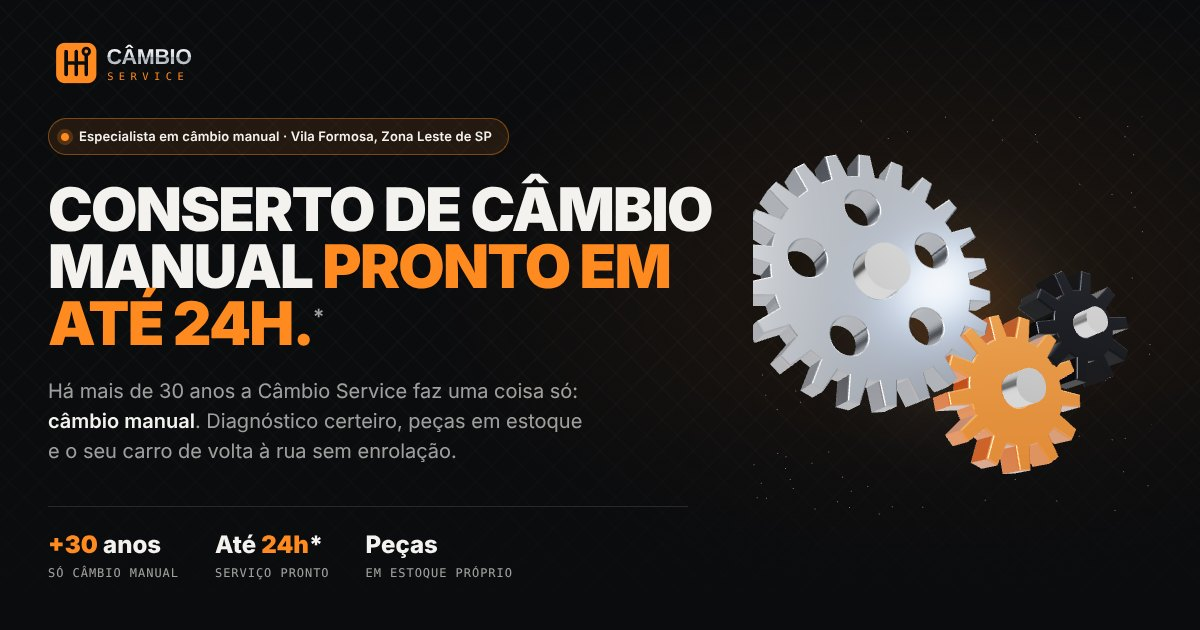
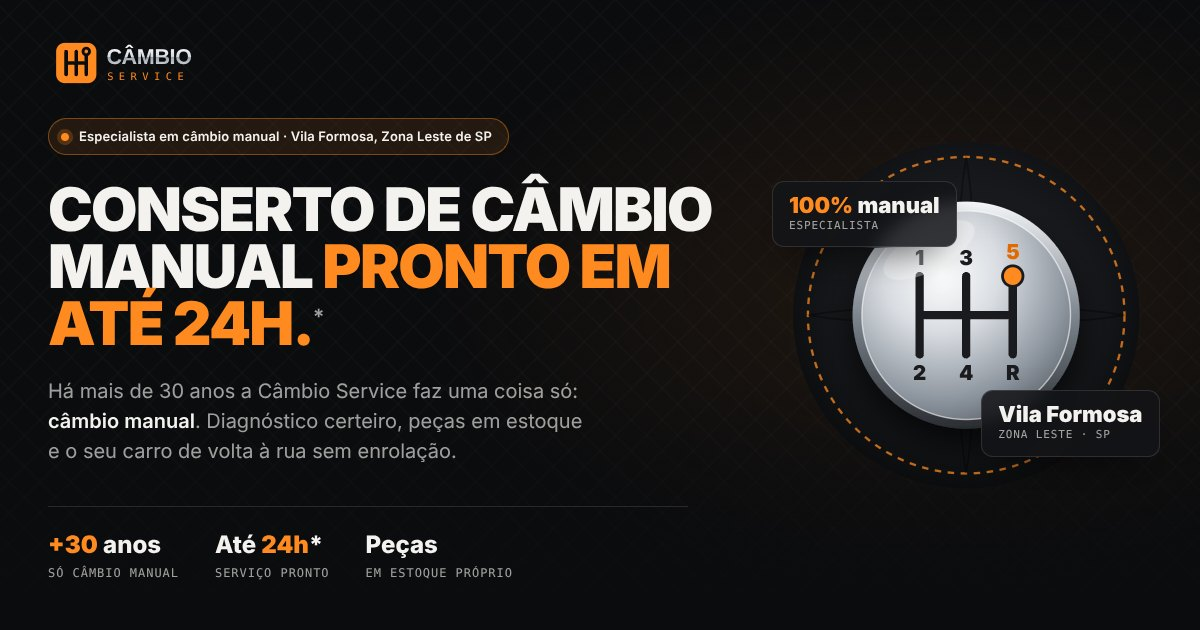
Câmbio Service: troca as engrenagens 3D por arte estática da manopla em H
Remove o Three.js do hero (página mais leve) e atualiza a imagem de compartilhamento.

Claude-Session: https://claude.ai/code/session_01X36YZ1AwxPhqunPH1Jujfz

Changed region(s): [[0.6167, 0.2413, 0.9558, 0.754], [0.8017, 0.2413, 0.8325, 0.2714]]

diff --git a/cambio-service/index.html b/cambio-service/index.html
@@ -257,22 +257,25 @@
   .hero__meta span { color: var(--muted); }
   .hero__note { margin-top: 14px; font-size: 12px; color: var(--muted); }
 
-  /* engrenagens 3D */
-  .gears { position: relative; width: 100%; max-width: 560px; aspect-ratio: 1; justify-self: end; touch-action: pan-y; cursor: grab; }
-  .gears:active { cursor: grabbing; }
-  .gears canvas { position: absolute; inset: 0; width: 100%; height: 100%; display: block; }
-  .gears::before {
-    content: ""; position: absolute; inset: 14%; border-radius: 50%; pointer-events: none;
-    background: radial-gradient(circle, rgba(255,138,31,.24), rgba(154,163,173,.06) 45%, transparent 70%);
-    filter: blur(22px);
+  /* manopla de câmbio (arte estática) */
+  .knob-art { position: relative; width: 100%; max-width: 500px; justify-self: end; }
+  .knob-art::before {
+    content: ""; position: absolute; inset: 8%; border-radius: 50%; pointer-events: none;
+    background: radial-gradient(circle, rgba(255,138,31,.28), rgba(154,163,173,.05) 50%, transparent 70%);
+    filter: blur(26px);
   }
-  .gears__hint { position: absolute; left: 0; right: 0; bottom: 4px; text-align: center; color: var(--muted); pointer-events: none; transition: opacity .6s; }
-  .gears.touched .gears__hint { opacity: 0; }
-  .gear-fallback { position: absolute; inset: 12%; width: 76%; height: 76%; }
-  .gear-fallback .g1 { animation: spin 14s linear infinite; transform-origin: 90px 100px; }
-  .gear-fallback .g2 { animation: spin 9.3s linear infinite reverse; transform-origin: 158px 64px; }
-  @keyframes spin { to { transform: rotate(360deg); } }
-  .gears.is-3d .gear-fallback { display: none; }
+  .knob-art svg { position: relative; width: 100%; height: auto; display: block; }
+  .knob-art svg text { font-family: var(--sans); font-weight: 900; text-anchor: middle; }
+  .knob-chip {
+    position: absolute; display: flex; flex-direction: column; gap: 2px; padding: 12px 16px; border-radius: 12px;
+    background: rgba(19,20,23,.86); border: 1px solid var(--line); backdrop-filter: blur(8px); -webkit-backdrop-filter: blur(8px);
+    box-shadow: 0 18px 40px -18px rgba(0,0,0,.8);
+  }
+  .knob-chip strong { font-size: 22px; font-weight: 900; font-stretch: 115%; line-height: 1; }
+  .knob-chip strong b { color: var(--amber); }
+  .knob-chip span { color: var(--muted); font-size: 11px; }
+  .knob-chip--a { left: -2%; top: 14%; }
+  .knob-chip--b { right: -2%; bottom: 12%; }
 
   .tilt { transform-style: preserve-3d; will-change: transform; }
 
@@ -493,7 +496,9 @@
     .topbar .wrap { height: 60px; }
     [id] { scroll-margin-top: 116px; }
     .hero .wrap { grid-template-columns: minmax(0, 1fr); }
-    .gears { max-width: 380px; justify-self: center; margin-top: -8px; }
+    .knob-art { max-width: 340px; justify-self: center; margin-top: 8px; }
+    .knob-chip--a { left: 0; }
+    .knob-chip--b { right: 0; }
     .resumo, .flow, .areas, .faq, .visit, .reviews { grid-template-columns: minmax(0, 1fr); }
     .resumo, .areas { gap: 32px; }
     .faq { gap: 16px; }
@@ -530,7 +535,6 @@
     .wa-float { width: 58px; padding: 0; justify-content: center; }
   }
   @media (prefers-reduced-motion: reduce) {
-    .gear-fallback .g1, .gear-fallback .g2 { animation: none; }
     .brands__track { animation-duration: 80s; }
     .reveal { transform: none; filter: none; transition: opacity 1s ease; transition-delay: var(--d, 0ms); }
   }
@@ -602,14 +606,42 @@
         <p class="hero__note">*Conforme o veículo e o tipo de reparo. O prazo exato vem junto com o orçamento.</p>
       </div>
 
-      <div class="gears" id="gears" aria-hidden="true">
-        <canvas id="gears3d"></canvas>
-        <!-- fallback sem WebGL -->
-        <svg class="gear-fallback" viewBox="0 0 220 200">
-          <g class="g1"><circle cx="90" cy="100" r="62" fill="none" stroke="#9aa3ad" stroke-width="14" stroke-dasharray="11 8"/><circle cx="90" cy="100" r="50" fill="#1a1b1f" stroke="#2b2c31" stroke-width="3"/><circle cx="90" cy="100" r="12" fill="#0b0c0e" stroke="#ff8a1f" stroke-width="3"/></g>
-          <g class="g2"><circle cx="158" cy="64" r="38" fill="none" stroke="#ff8a1f" stroke-width="12" stroke-dasharray="9 7"/><circle cx="158" cy="64" r="29" fill="#1a1b1f"/><circle cx="158" cy="64" r="8" fill="#0b0c0e"/></g>
+      <!-- manopla de câmbio manual vista de cima, com a grade em H gravada -->
+      <div class="knob-art" aria-hidden="true">
+        <svg viewBox="0 0 400 400">
+          <defs>
+            <radialGradient id="kBoot" cx="50%" cy="45%" r="55%"><stop offset="0" stop-color="#26272c"/><stop offset=".75" stop-color="#141518"/><stop offset="1" stop-color="#0b0c0e"/></radialGradient>
+            <radialGradient id="kTop" cx="38%" cy="30%" r="80%"><stop offset="0" stop-color="#ffffff"/><stop offset=".35" stop-color="#d9dde2"/><stop offset=".75" stop-color="#8e969f"/><stop offset="1" stop-color="#5d646c"/></radialGradient>
+            <linearGradient id="kRim" x1="0" y1="0" x2="0" y2="1"><stop offset="0" stop-color="#f4f6f8"/><stop offset=".5" stop-color="#7d858e"/><stop offset="1" stop-color="#2a2d32"/></linearGradient>
+            <filter id="kShadow" x="-20%" y="-20%" width="140%" height="140%"><feDropShadow dx="0" dy="18" stdDeviation="16" flood-color="#000" flood-opacity=".7"/></filter>
+          </defs>
+          <!-- coifa de couro com costura -->
+          <circle cx="200" cy="200" r="186" fill="url(#kBoot)"/>
+          <circle cx="200" cy="200" r="170" fill="none" stroke="#ff8a1f" stroke-opacity=".75" stroke-width="2.5" stroke-dasharray="7 7"/>
+          <g stroke="#000" stroke-opacity=".35" stroke-width="2" fill="none">
+            <path d="M200 30 Q214 115 200 200 Q186 115 200 30"/><path d="M370 200 Q285 214 200 200 Q285 186 370 200"/>
+            <path d="M200 370 Q186 285 200 200 Q214 285 200 370"/><path d="M30 200 Q115 186 200 200 Q115 214 30 200"/>
+          </g>
+          <!-- manopla -->
+          <g filter="url(#kShadow)">
+            <circle cx="200" cy="200" r="122" fill="url(#kRim)"/>
+            <circle cx="200" cy="200" r="112" fill="url(#kTop)"/>
+          </g>
+          <circle cx="200" cy="200" r="112" fill="none" stroke="#fff" stroke-opacity=".6" stroke-width="1.5"/>
+          <!-- grade em H gravada -->
+          <g fill="none" stroke="#1a1b1f" stroke-width="9" stroke-linecap="round" stroke-linejoin="round">
+            <path d="M150 158v84M200 158v84M250 158v84M150 200h100"/>
+          </g>
+          <circle cx="250" cy="158" r="11" fill="#ff8a1f" stroke="#1a1b1f" stroke-width="3"/>
+          <g fill="#1a1b1f" font-size="22">
+            <text x="150" y="146">1</text><text x="200" y="146">3</text><text x="250" y="140" fill="#e06a00">5</text>
+            <text x="150" y="270">2</text><text x="200" y="270">4</text><text x="250" y="270">R</text>
+          </g>
+          <!-- reflexo -->
+          <ellipse cx="160" cy="130" rx="54" ry="22" transform="rotate(-28 160 130)" fill="#fff" opacity=".35"/>
         </svg>
-        <span class="gears__hint label">Arraste para girar</span>
+        <div class="knob-chip knob-chip--a"><strong><b>100%</b> manual</strong><span class="label">especialista</span></div>
+        <div class="knob-chip knob-chip--b"><strong>Vila Formosa</strong><span class="label">Zona Leste · SP</span></div>
       </div>
     </div>
   </section>
@@ -1147,183 +1179,5 @@
   document.getElementById('year').textContent = new Date().getFullYear();
 </script>
 
-<!-- Engrenagens 3D (Three.js). Sem WebGL, fica a versão em SVG. -->
-<script type="importmap">
-{ "imports": {
-  "three": "https://cdn.jsdelivr.net/npm/three@0.170.0/build/three.module.js",
-  "three/addons/": "https://cdn.jsdelivr.net/npm/three@0.170.0/examples/jsm/"
-} }
-</script>
-<script type="module">
-  import * as THREE from 'three';
-  import { RoomEnvironment } from 'three/addons/environments/RoomEnvironment.js';
-
-  const box = document.getElementById('gears');
-  const canvas = document.getElementById('gears3d');
-  const reduced = matchMedia('(prefers-reduced-motion: reduce)').matches;
-  const small = innerWidth < 900;
-
-  let renderer = null;
-  try {
-    renderer = new THREE.WebGLRenderer({ canvas, antialias: true, alpha: true, powerPreference: 'high-performance' });
-  } catch (e) { /* sem WebGL: mantém o fallback */ }
-  if (renderer) init();
-
-  // perfil de engrenagem de dentes retos (módulo m, z dentes), com furo central e janelas de alívio
-  function gearGeometry(z, m, depth, { hole = 0.3, windows = 0 } = {}) {
-    const rp = m * z / 2, ra = rp + m, rf = rp - 1.25 * m;
-    const shape = new THREE.Shape();
-    const step = (Math.PI * 2) / z;
-    for (let i = 0; i < z; i++) {
-      const a = i * step;
-      const pts = [
-        [rf, a - step * 0.5], [rf, a - step * 0.27], [ra, a - step * 0.14],
-        [ra, a + step * 0.14], [rf, a + step * 0.27]
-      ];
-      pts.forEach(([r, t], j) => {
-        const x = Math.cos(t) * r, y = Math.sin(t) * r;
-        i === 0 && j === 0 ? shape.moveTo(x, y) : shape.lineTo(x, y);
-      });
-    }
-    shape.closePath();
-    const h = new THREE.Path(); h.absarc(0, 0, rp * hole, 0, Math.PI * 2, true); shape.holes.push(h);
-    for (let i = 0; i < windows; i++) {
-      const a = (i / windows) * Math.PI * 2, r = rp * 0.6, w = new THREE.Path();
-      w.absarc(Math.cos(a) * r, Math.sin(a) * r, rp * 0.17, 0, Math.PI * 2, true);
-      shape.holes.push(w);
-    }
-    const g = new THREE.ExtrudeGeometry(shape, { depth, bevelEnabled: true, bevelThickness: 0.04, bevelSize: 0.03, bevelSegments: 2, curveSegments: small ? 16 : 32 });
-    g.translate(0, 0, -depth / 2);
-    return g;
-  }
-
-  function init() {
-    box.classList.add('is-3d');
-    renderer.setPixelRatio(Math.min(devicePixelRatio, small ? 1.5 : 2));
-    renderer.outputColorSpace = THREE.SRGBColorSpace;
-    renderer.toneMapping = THREE.ACESFilmicToneMapping;
-    renderer.toneMappingExposure = 1.05;
-
-    const scene = new THREE.Scene();
-    const camera = new THREE.PerspectiveCamera(30, 1, 0.1, 100);
-    camera.position.set(0, 0, 14.5);
-
-    const pmrem = new THREE.PMREMGenerator(renderer);
-    scene.environment = pmrem.fromScene(new RoomEnvironment(), 0.04).texture;
-
-    scene.add(new THREE.AmbientLight(0xffffff, 0.15));
-    const key = new THREE.DirectionalLight(0xffffff, 1.4); key.position.set(3, 5, 6); scene.add(key);
-    const amberLight = new THREE.PointLight(0xff8a1f, 55, 22, 2); amberLight.position.set(-4, -3, 4); scene.add(amberLight);
-    const coolLight = new THREE.PointLight(0x9fc4ff, 26, 20, 2); coolLight.position.set(5, 4, 3); scene.add(coolLight);
-
-    const steel = new THREE.MeshStandardMaterial({ color: 0xb8bec6, metalness: 1, roughness: 0.28 });
-    const dark = new THREE.MeshStandardMaterial({ color: 0x2a2c31, metalness: 0.9, roughness: 0.35 });
-    const amber = new THREE.MeshPhysicalMaterial({ color: 0xff8a1f, metalness: 0.6, roughness: 0.25, clearcoat: 1, clearcoatRoughness: 0.08 });
-    const chrome = new THREE.MeshStandardMaterial({ color: 0xffffff, metalness: 1, roughness: 0.1 });
-
-    const rig = new THREE.Group();
-    scene.add(rig);
-
-    // trem de engrenagens: A (grande) engrena com B (laranja), que engrena com C (pequena)
-    const m = 0.2, depth = 0.55;
-    const zA = 22, zB = 13, zC = 10;
-    const rA = m * zA / 2, rB = m * zB / 2, rC = m * zC / 2;
-    const A = new THREE.Mesh(gearGeometry(zA, m, depth, { hole: 0.22, windows: 5 }), steel);
-    const B = new THREE.Mesh(gearGeometry(zB, m, depth, { hole: 0.28, windows: 0 }), amber);
-    const C = new THREE.Mesh(gearGeometry(zC, m, depth * 1.2, { hole: 0.3 }), dark);
-    const angB = -0.55, angC = 0.75; // direção dos centros
-    A.position.set(-0.9, -0.35, 0);
-    B.position.set(A.position.x + Math.cos(angB) * (rA + rB), A.position.y + Math.sin(angB) * (rA + rB), 0);
-    C.position.set(B.position.x + Math.cos(angC) * (rB + rC), B.position.y + Math.sin(angC) * (rB + rC), 0);
-    rig.add(A, B, C);
-    // centraliza o conjunto no quadro
-    const center = new THREE.Box3().setFromObject(rig).getCenter(new THREE.Vector3());
-    [A, B, C].forEach(g => g.position.sub(center));
-
-    // eixos cromados
-    const shaftGeo = new THREE.CylinderGeometry(1, 1, 1.6, 32); shaftGeo.rotateX(Math.PI / 2);
-    [[A, rA * 0.22], [B, rB * 0.28], [C, rC * 0.3]].forEach(([g, r]) => {
-      const s = new THREE.Mesh(shaftGeo, chrome);
-      s.scale.set(r * 0.92, r * 0.92, 1);
-      s.position.copy(g.position);
-      rig.add(s);
-    });
-
-    // fase: quando um dente de A aponta para B, B tem um vão virado para A (e o mesmo entre B e C)
-    const ratioAB = zA / zB, ratioBC = zB / zC;
-    const thetaB = a => -(a - angB) * ratioAB + angB + Math.PI + Math.PI / zB;
-    const thetaC = b => -(b - angC) * ratioBC + angC + Math.PI + Math.PI / zC;
-
-    // partículas de "limalha" no ar
-    const N = small ? 90 : 200;
-    const pos = new Float32Array(N * 3);
-    for (let i = 0; i < N; i++) {
-      const r = 3.6 + Math.random() * 2.2, a = Math.random() * Math.PI * 2;
-      pos[i * 3] = Math.cos(a) * r; pos[i * 3 + 1] = Math.sin(a) * r; pos[i * 3 + 2] = (Math.random() - 0.5) * 4;
-    }
-    const pGeo = new THREE.BufferGeometry();
-    pGeo.setAttribute('position', new THREE.BufferAttribute(pos, 3));
-    const particles = new THREE.Points(pGeo, new THREE.PointsMaterial({ color: 0xffb066, size: 0.045, transparent: true, opacity: 0.55, blending: THREE.AdditiveBlending, depthWrite: false }));
-    scene.add(particles);
-
-    // interação: mouse inclina, arrastar gira, rolar a página acelera
-    let mx = 0, my = 0, dragX = 0, dragY = 0, dragging = false, px = 0, py = 0, boost = 0, lastScroll = scrollY;
-    addEventListener('pointermove', e => { mx = e.clientX / innerWidth - 0.5; my = e.clientY / innerHeight - 0.5; }, { passive: true });
-    addEventListener('scroll', () => { boost = Math.min(6, boost + Math.abs(scrollY - lastScroll) * 0.02); lastScroll = scrollY; }, { passive: true });
-    box.addEventListener('pointerdown', e => {
-      dragging = true; px = e.clientX; py = e.clientY;
-      box.setPointerCapture(e.pointerId);
-      box.classList.add('touched');
-    });
-    box.addEventListener('pointermove', e => {
-      if (!dragging) return;
-      dragY += (e.clientX - px) * 0.012; dragX += (e.clientY - py) * 0.012;
-      boost = Math.min(6, boost + 0.15);
-      px = e.clientX; py = e.clientY;
-    });
-    ['pointerup', 'pointercancel'].forEach(ev => box.addEventListener(ev, () => { dragging = false; }));
-
-    const resize = () => {
-      const w = box.clientWidth, h = box.clientHeight;
-      renderer.setSize(w, h, false);
-      camera.aspect = w / h;
-      camera.updateProjectionMatrix();
-    };
-    new ResizeObserver(resize).observe(box);
-    resize();
-
-    let visible = true;
-    new IntersectionObserver(([e]) => { visible = e.isIntersecting; }).observe(box);
-
-    const clock = new THREE.Clock();
-    let angle = 0;
-    rig.rotation.set(-0.35, 0.45, 0);
-    const frame = () => {
-      requestAnimationFrame(frame);
-      const dt = Math.min(clock.getDelta(), 0.05);
-      if (!visible) return;
-      const t = clock.elapsedTime;
-
-      boost *= 0.95;
-      angle += dt * (reduced ? 0.08 : 0.35 + boost * 0.6);
-      A.rotation.z = angle;
-      B.rotation.z = thetaB(angle);
-      C.rotation.z = thetaC(B.rotation.z);
-
-      if (!dragging) { dragX *= 0.985; dragY *= 0.985; }
-      const s = Math.min(1, scrollY / (innerHeight * 0.9));
-      const tx = -0.35 + my * 0.35 + dragX + Math.sin(t * 0.6) * 0.03;
-      const ty = 0.45 + mx * 0.6 + dragY + s * 0.9 + Math.sin(t * 0.45) * 0.05;
-      rig.rotation.x += (tx - rig.rotation.x) * 0.08;
-      rig.rotation.y += (ty - rig.rotation.y) * 0.08;
-      rig.position.y = Math.sin(t * 1.1) * 0.08;
-
-      amberLight.intensity = 55 + boost * 8;
-      particles.rotation.z = t * 0.03;
-      renderer.render(scene, camera);
-    };
-    frame();
-  }
-</script>
 </body>
 </html>
